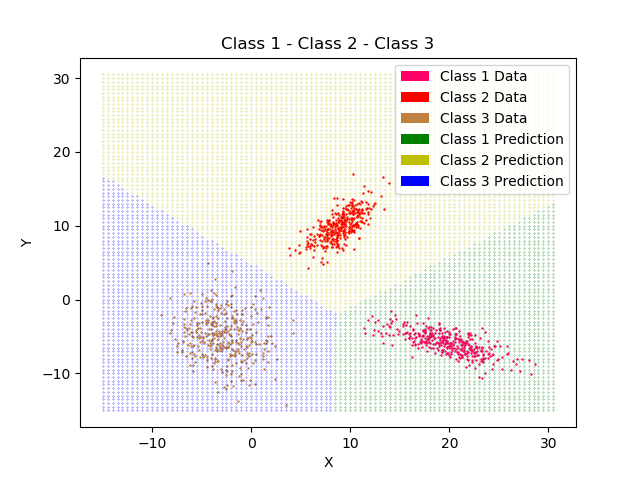
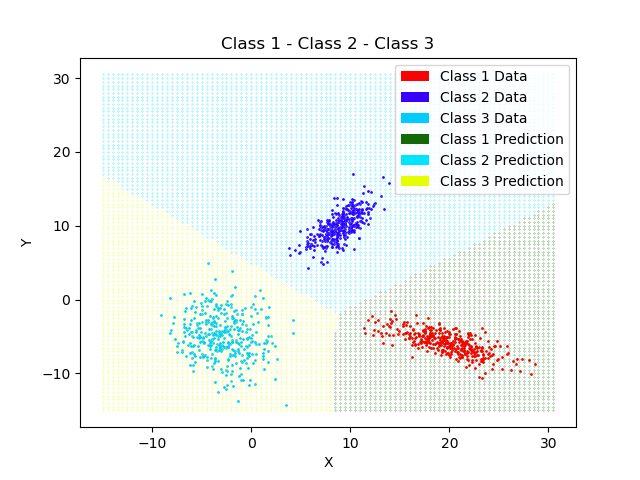
Graphs

Changed region(s): [[0.1562, 0.125, 0.875, 0.875], [0.5625, 0.6562, 0.8125, 0.7812]]

diff --git a/assignments/assign-1/lsd.py b/assignments/assign-1/lsd.py
@@ -6,16 +6,17 @@ import math
 
 def plot(covMat, classname):
 	minMax = np.zeros((numFeature,numFeature))
+	colors = ['#136906', '#00e5ff', '#e5ff00', '#ff0000', '#3700ff', '#00ccff']
 	res = 200
 	precision = 0.5
 	bkgPointSize = 0.05
-	dataPointSize = 0.5
+	dataPointSize = 1
 	for i in range(numFeature):
 		minMax[i, 0] = np.ceil(1.5*np.amin(data[:, :, 0]))
 		minMax[i, 1] = np.ceil(1.5*np.amax(data[:, :, 1]))
 
-	#x = np.linspace(1.2*minMax[0,0], 1.2*minMax[0,1], res)
-	#y = np.linspace(1.2*minMax[1,0], 1.2*minMax[1,1], res)
+	# x = np.linspace(1.2*minMax[0,0], 1.2*minMax[0,1], res)
+	# y = np.linspace(1.2*minMax[1,0], 1.2*minMax[1,1], res)
 
 	x = np.arange(int(1.2*minMax[0,0]), int(1.2*minMax[0,1]), precision)
 	y = np.arange(int(1.2*minMax[1,0]), int(1.2*minMax[1,1]), precision)
@@ -59,38 +60,38 @@ def plot(covMat, classname):
 		plotname = "plot.png"
 
 		if lc==1:
-			ax.scatter(data[1,:,0],data[1,:,1], c = "r", s=dataPointSize, label="Class 2 Data")
-			ax.scatter(data[2,:,0],data[2,:,1], c = "#bf8040", s=dataPointSize, label="Class 3 Data")
-			ax.scatter(yellowX, yellowY, marker='o', c = "y", s=bkgPointSize, label="Class 2 Prediction")
-			ax.scatter(blueX, blueY, marker='o', c = "b", s=bkgPointSize, label="Class 3 Prediction")
-			class_colours = ['r', '#bf8040', 'y', 'b']
+			ax.scatter(data[1,:,0], data[1,:,1], c=colors[4], s=dataPointSize, label="Class 2 Data")
+			ax.scatter(data[2,:,0], data[2,:,1], c=colors[5], s=dataPointSize, label="Class 3 Data")
+			ax.scatter(yellowX, yellowY, marker='o', c=colors[1], s=bkgPointSize, label="Class 2 Prediction")
+			ax.scatter(blueX, blueY, marker='o', c=colors[2], s=bkgPointSize, label="Class 3 Prediction")
+			class_colours = [colors[4], colors[5], colors[1], colors[2]]
 			classes = ["Class 2 Data", "Class 3 Data", "Class 2 Prediction", "Class 3 Prediction"]
 			plotname = "23"+plotname
 
 		elif lc==2:
-			ax.scatter(data[0, :, 0], data[0, :, 1], c="#ff0066", s=dataPointSize, label="Class 1 Data")
-			ax.scatter(data[2,:,0],data[2,:,1], c = "#bf8040", s=dataPointSize, label="Class 3 Data")
-			ax.scatter(greenX, greenY, marker='o', c = "g", s=bkgPointSize, label="Class 1 Prediction")
-			ax.scatter(blueX, blueY, marker='o', c = "b", s=bkgPointSize, label="Class 3 Prediction")
-			class_colours = ['#ff0066', '#bf8040', 'g', 'b']
+			ax.scatter(data[0,:,0], data[0, :, 1], c=colors[3], s=dataPointSize, label="Class 1 Data")
+			ax.scatter(data[2,:,0],data[2,:,1], c=colors[5], s=dataPointSize, label="Class 3 Data")
+			ax.scatter(greenX, greenY, marker='o', c=colors[0], s=bkgPointSize, label="Class 1 Prediction")
+			ax.scatter(blueX, blueY, marker='o', c=colors[2], s=bkgPointSize, label="Class 3 Prediction")
+			class_colours = [colors[5], colors[3], colors[0], colors[2]]
 			classes = ["Class 1 Data", "Class 3 Data", "Class 1 Prediction", "Class 3 Prediction"]
 			plotname = "13" + plotname
 		elif lc==3:
-			ax.scatter(data[0,:,0],data[0,:,1], c = "#ff0066", s=dataPointSize, label="Class 1 Data")
-			ax.scatter(data[1,:,0],data[1,:,1], c = "r", s=dataPointSize, label="Class 2 Data")
-			ax.scatter(greenX, greenY, marker='o', c = "g", s=bkgPointSize, label="Class 1 Prediction")
-			ax.scatter(yellowX, yellowY, marker='o', c = "y", s=bkgPointSize, label="Class 2 Prediction")
-			class_colours = ['#ff0066', 'r', 'g', 'y']
+			ax.scatter(data[0,:,0],data[0,:,1], c=colors[3], s=dataPointSize, label="Class 1 Data")
+			ax.scatter(data[1,:,0],data[1,:,1], c = colors[4], s=dataPointSize, label="Class 2 Data")
+			ax.scatter(greenX, greenY, marker='o', c = colors[0], s=bkgPointSize, label="Class 1 Prediction")
+			ax.scatter(yellowX, yellowY, marker='o', c = colors[1], s=bkgPointSize, label="Class 2 Prediction")
+			class_colours = [colors[3], colors[4], colors[0], colors[1]]
 			classes = ["Class 1 Data", "Class 2 Data", "Class 1 Prediction", "Class 2 Prediction"]
 			plotname = "12" + plotname
 		else:
-			ax.scatter(data[0,:,0],data[0,:,1], c = "#ff0066", s=dataPointSize, label="Class 1 Data")
-			ax.scatter(data[1,:,0],data[1,:,1], c = "r", s=dataPointSize, label="Class 2 Data")
-			ax.scatter(data[2,:,0],data[2,:,1], c = "#bf8040", s=dataPointSize, label="Class 3 Data")
-			ax.scatter(greenX, greenY, marker='o', c = "g", s=bkgPointSize, label="Class 1 Prediction")
-			ax.scatter(yellowX, yellowY, marker='o', c = "y", s=bkgPointSize, label="Class 2 Prediction")
-			ax.scatter(blueX, blueY, marker='o', c = "b", s=bkgPointSize, label="Class 3 Prediction")
-			class_colours = ['#ff0066', 'r', '#bf8040', 'g', 'y', 'b']
+			ax.scatter(data[0,:,0],data[0,:,1], c = colors[3], s=dataPointSize, label="Class 1 Data")
+			ax.scatter(data[1,:,0],data[1,:,1], c = colors[4], s=dataPointSize, label="Class 2 Data")
+			ax.scatter(data[2,:,0],data[2,:,1], c = colors[5], s=dataPointSize, label="Class 3 Data")
+			ax.scatter(greenX, greenY, marker='o', c = colors[0], s=bkgPointSize, label="Class 1 Prediction")
+			ax.scatter(yellowX, yellowY, marker='o', c = colors[1], s=bkgPointSize, label="Class 2 Prediction")
+			ax.scatter(blueX, blueY, marker='o', c=colors[2], s=bkgPointSize, label="Class 3 Prediction")
+			class_colours = [colors[3], colors[4], colors[5], colors[0], colors[1], colors[2]]
 			classes = ["Class 1 Data", "Class 2 Data", "Class 3 Data", "Class 1 Prediction", "Class 2 Prediction", "Class 3 Prediction"]
 			plotname = "123" + plotname
 		ax.patch.set_visible(False)
@@ -113,7 +114,8 @@ def plot(covMat, classname):
 
 		plt.legend(recs, classes, loc='upper right')
 		plt.savefig(plotname)
-
+		print("CAT")
+		#plt.show()
 
 #defining discriminant function
 
